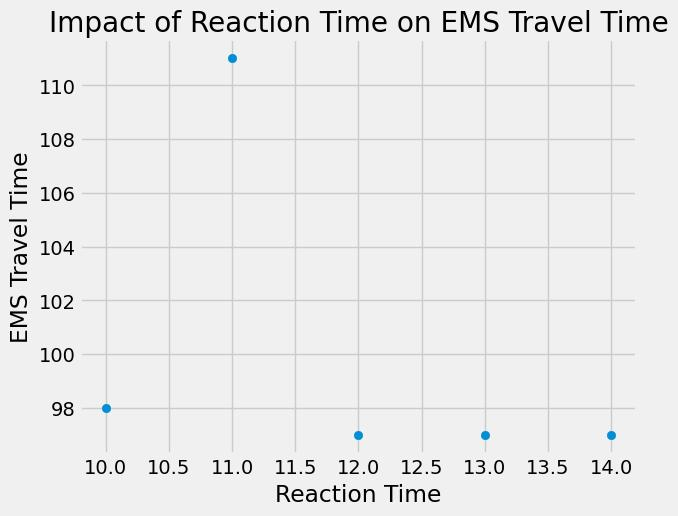
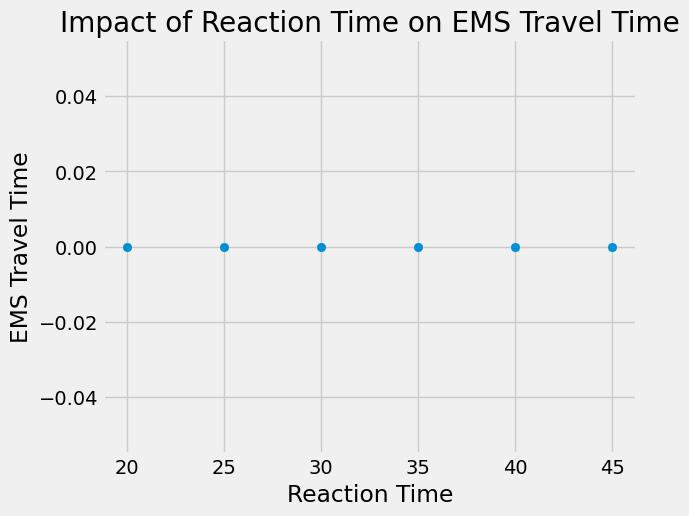
Push

diff --git a/VerticalRoad/runner.py b/VerticalRoad/runner.py
@@ -1,0 +1,88 @@
+import csv
+import os
+import sys
+import optparse
+from random import randint
+from sumolib import checkBinary
+import traci
+
+# VERIFY THAT SUMO IS INSTALLED AND PATH IS SET UP
+if 'SUMO_HOME' in os.environ:
+    tools = os.path.join(os.environ['SUMO_HOME'], 'tools')
+else:
+    sys.exit("ERROR: Please declare SUMO_HOME in your environment variables.")
+
+# GET OPTIONS
+def get_options():
+    opt_parser = optparse.OptionParser()
+    opt_parser.add_option("--nogui", action="store_true", default=False, help="run the commandline version of SUMO")
+    options, args = opt_parser.parse_args()
+    return options
+
+# RETURNS TRUE IF THERE IS AN ACTIVE BLUE LIGHT DEVICE IN VEH_ID_LIST
+def isEMSPresent(veh_id_list):
+    for vehID in veh_id_list:
+            if traci.vehicle.getParameterWithKey(vehID, "has.bluelight.device")[1] == 'true':
+                return True
+    return False
+
+# BASE TRACI CONTROL LOOP
+def run():
+    step = 0
+    print(traci.trafficlight.getIDList())
+    while traci.simulation.getMinExpectedNumber() > 0:
+        traci.simulationStep()
+        # DO TRACI THINGS HERE
+
+        # These det booleans will be true if the detector was just tripped last step
+        det1_0 = traci.inductionloop.getTimeSinceDetection('det1_0') == 0
+        det1_1 = traci.inductionloop.getTimeSinceDetection('det1_1') == 0
+        det2_0 = traci.inductionloop.getTimeSinceDetection('det2_0') == 0
+        det2_1 = traci.inductionloop.getTimeSinceDetection('det2_1') == 0
+        det3_0 = traci.inductionloop.getTimeSinceDetection('det3_0') == 0
+        det3_1 = traci.inductionloop.getTimeSinceDetection('det3_1') == 0
+        det4_0 = traci.inductionloop.getTimeSinceDetection('det4_0') == 0
+        det4_1 = traci.inductionloop.getTimeSinceDetection('det4_1') == 0
+
+        # If the detector was tripped last step, print its ID
+        if det1_0:
+            print("det1_0")
+        if det1_1:
+            print("det1_1")
+        if det2_0:
+            print("det2_0")
+        if det2_1:
+            print("det2_1")
+        if det3_0:
+            print("det3_0")
+        if det3_1:
+            print("det3_1")
+        if det4_0:
+            print("det4_0")
+        if det4_1:
+            print("det4_1")
+
+        step += 1
+    traci.close()
+    sys.stdout.flush()
+    pass
+
+# Main
+if __name__ == "__main__":
+    options = get_options()
+    FILENAME = "simulation_EMS.sumocfg"
+
+    # check binary
+    if options.nogui:
+        sumoBinary = checkBinary('sumo')
+    else: sumoBinary = checkBinary('sumo-gui')
+
+    cmd =   [   sumoBinary,
+                "-c",
+                FILENAME,
+                "--tripinfo-output",
+                "tripinfo.xml"
+            ]
+
+    traci.start(["sumo-gui", "-c", FILENAME])
+    run()

diff --git a/VerticalRoad/reaction_time_experiment.py b/VerticalRoad/reaction_time_experiment.py
@@ -89,7 +89,7 @@ def perform_reaction_time_experiment(min_reaction_time=0, max_reaction_time=25, 
     for i in range(min_reaction_time, max_reaction_time, increment):
         
         # TraCI starts sumo as a subprocess and then this script connects and runs
-        traci.start(["sumo", "-c", FILENAME])
+        traci.start(["sumo-gui", "-c", FILENAME])
         time = run_reaction_simulation(bluelight_reaction_time=float(i))
         x.append(i)
         y.append(time)
@@ -114,7 +114,7 @@ def perform_reaction_time_experiment(min_reaction_time=0, max_reaction_time=25, 
 # Main
 if __name__ == "__main__":
     options = get_options()
-    FILENAME = "simulation.sumocfg"
+    FILENAME = "simulation_EMS.sumocfg"
 
     # check binary
     if options.nogui:
@@ -128,7 +128,9 @@ if __name__ == "__main__":
                 "tripinfo.xml"
             ]
 
-    perform_reaction_time_experiment(10, 15, 1)
+    traci.start(["sumo-gui", "-c", FILENAME])
+    run_reaction_simulation(bluelight_reaction_time=float(50))
+    # perform_reaction_time_experiment(20, 50, 5)
     
 
     
